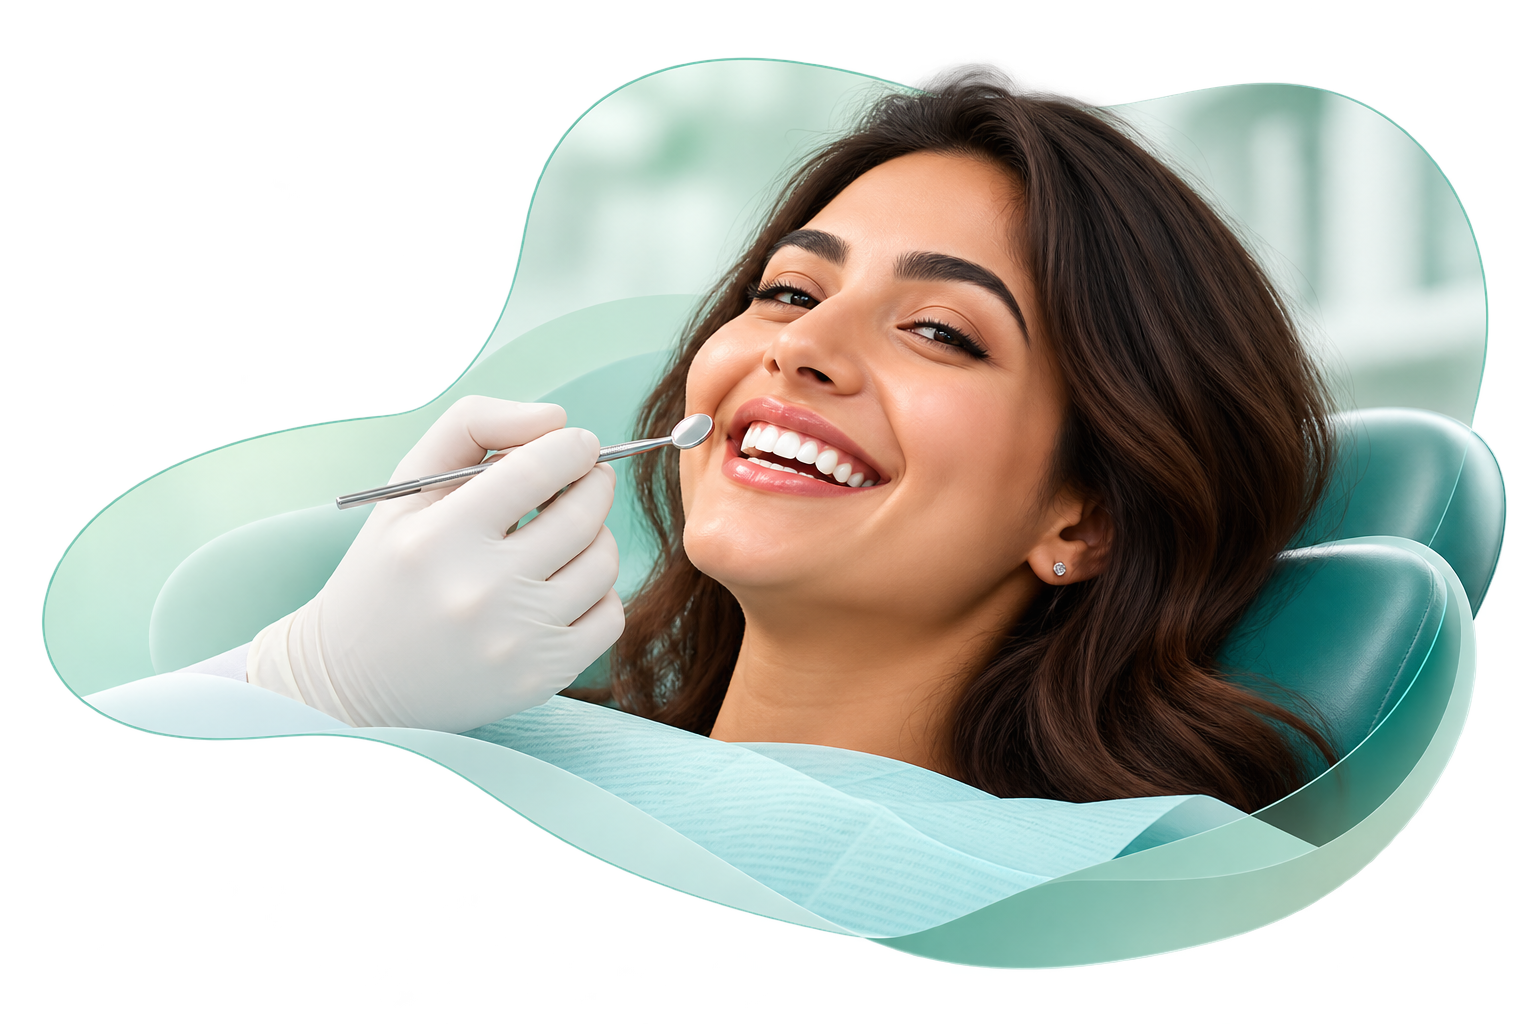
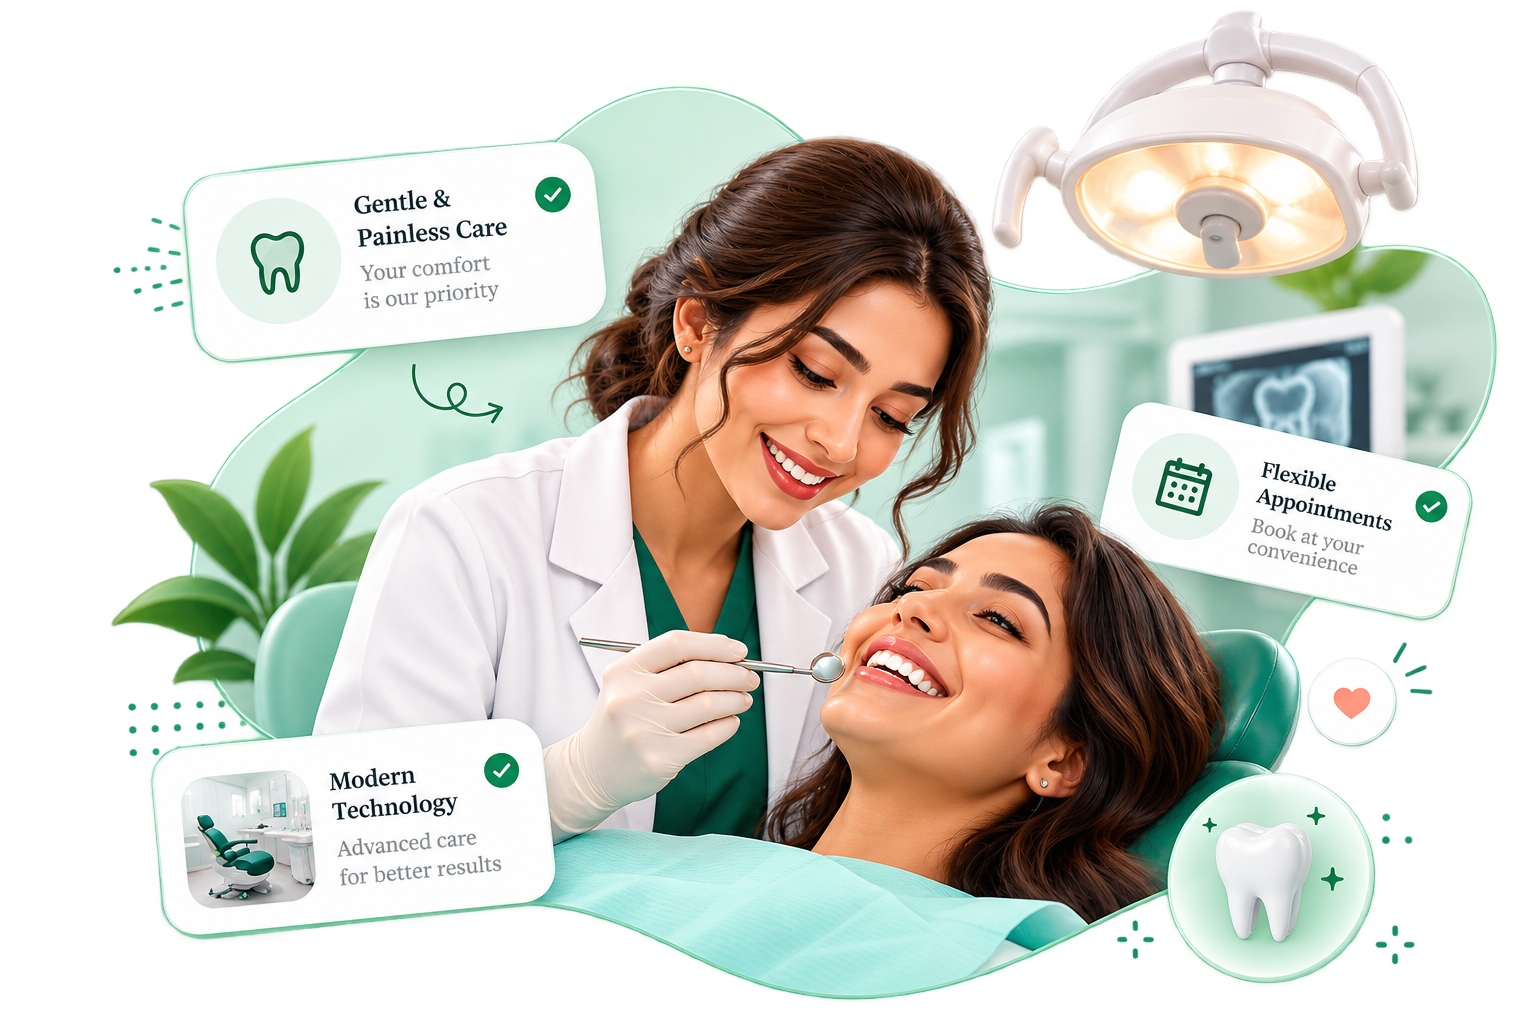
feat(hero): update HeroSection layout and styles for improved presentation
- Increased the maximum container width in globals.css for better layout.
- Adjusted padding in HeroSection for enhanced spacing.
- Added BrushMark component to the HeroSection for visual appeal.
- Wrapped the "Healthier You" text in a flex container for better alignment with the BrushMark.
- Updated hero image to reflect new design.

diff --git a/src/components/home/BrushMark.tsx b/src/components/home/BrushMark.tsx
@@ -1,0 +1,47 @@
+import { useId } from "react";
+
+// Shape traced from the reference image (tight viewBox, no padding).
+const SHAPE_PATH =
+  "M29.69 80.27C30.38 80.20 33.33 80.08 36.25 80.01C47.91 79.71 48.95 79.58 53.06 77.85C57.71 75.90 59.57 74.23 59.35 72.21C59.10 70.05 55.92 67.66 52.57 67.12C51.23 66.90 47.95 67.01 47.41 67.29C46.30 67.87 46.94 68.94 48.89 69.77C49.40 69.98 50.09 70.31 50.43 70.50C50.78 70.69 51.43 70.97 51.88 71.11C54.41 71.94 54.48 73.26 52.08 75.05C50.31 76.38 49.20 76.72 46.06 76.88C41.93 77.09 38.99 76.74 36.98 75.80C34.97 74.87 33.68 74.88 31.29 75.88C27.50 77.45 25.50 78.73 25.50 79.57C25.51 80.54 26.09 80.63 29.69 80.27ZM31.26 65.99C32.03 65.70 33.76 64.91 35.11 64.22C40.65 61.39 43.76 59.85 45.06 59.30C45.82 58.98 47.00 58.48 47.69 58.19C48.38 57.90 49.33 57.48 49.81 57.27C50.29 57.06 51.17 56.69 51.75 56.43C52.33 56.18 53.40 55.72 54.12 55.41C54.85 55.10 56.53 54.43 57.88 53.92C59.22 53.41 61.10 52.69 62.06 52.31C65.92 50.81 68.97 49.73 70.94 49.18C71.56 49.00 73.44 48.41 75.11 47.87C78.48 46.77 78.79 46.73 80.15 47.14C82.32 47.80 84.63 46.82 84.63 45.23C84.62 43.36 81.95 42.96 77.68 44.19C76.58 44.51 74.48 45.08 73.00 45.46C71.52 45.83 69.36 46.39 68.19 46.69C67.02 46.99 65.25 47.51 64.25 47.86C62.62 48.42 61.54 48.82 57.12 50.48C55.52 51.09 53.36 51.97 52.19 52.50C51.71 52.72 50.78 53.09 50.12 53.31C46.58 54.54 42.53 56.50 36.79 59.77C35.45 60.53 34.31 61.17 32.95 61.91C30.56 63.22 28.88 64.83 28.88 65.81C28.88 66.66 29.33 66.69 31.26 65.99ZM20.64 58.18C21.23 57.77 21.90 56.81 22.32 55.75C23.28 53.36 25.48 50.82 30.33 46.48C31.86 45.12 33.55 43.49 34.10 42.85C34.65 42.21 35.83 40.85 36.71 39.82C37.59 38.80 38.71 37.47 39.19 36.88C39.67 36.28 40.52 35.29 41.08 34.68C43.97 31.53 46.28 27.75 46.52 25.77C46.68 24.38 46.83 24.09 47.79 23.23C48.79 22.34 49.75 20.62 49.25 20.63C49.18 20.63 48.80 20.78 48.40 20.98C48.01 21.17 46.94 21.63 46.03 21.99C44.37 22.66 43.31 23.25 42.25 24.12C40.95 25.19 39.16 26.29 36.80 27.48C33.70 29.05 33.64 29.09 30.79 31.76C26.61 35.69 25.24 37.74 23.23 43.11C22.75 44.37 22.20 45.77 21.99 46.23C21.25 47.85 19.99 51.15 19.80 51.96C19.70 52.41 19.28 53.61 18.87 54.64C18.39 55.84 18.12 56.68 18.12 57.01C18.12 58.43 19.41 59.03 20.64 58.18ZM25.25 46.39C25.25 46.09 25.71 45.50 25.95 45.50C26.18 45.50 26.18 46.00 25.93 46.35C25.69 46.69 25.25 46.72 25.25 46.39ZM27.34 44.03C26.83 43.45 26.72 41.53 27.12 40.23C27.58 38.74 29.52 35.62 31.19 33.67C31.87 32.88 34.04 31.12 36.81 29.13C38.94 27.60 38.94 27.60 39.67 27.65C40.33 27.70 40.46 27.75 40.83 28.16C41.64 29.04 41.25 30.32 39.54 32.48C37.46 35.07 36.69 35.99 35.32 37.44C34.48 38.33 33.19 39.71 32.44 40.50C29.43 43.71 27.96 44.73 27.34 44.03Z";
+
+type BrushMarkProps = {
+  /** Fill color of the shape */
+  color?: string;
+  className?: string;
+  width?: number | string;
+};
+
+export default function BrushMark({
+  color = "#3f8f66",
+  className,
+  width = 60,
+}: BrushMarkProps) {
+  const clipId = `clip-${useId().replace(/:/g, "")}`; // unique per instance, SSR-safe
+
+  return (
+    <svg
+      viewBox="18.12 20.62 66.51 59.85"
+      width={width}
+      className={className}
+      role="img"
+      aria-label="Green brush mark"
+    >
+      <defs>
+        <clipPath id={clipId}>
+          <path fillRule="evenodd" clipRule="evenodd" d={SHAPE_PATH} />
+        </clipPath>
+      </defs>
+
+      {/* Anything drawn here is revealed only inside the shape:
+          swap the rect for an <image>, gradient, pattern, etc. */}
+      <rect
+        x="18.12"
+        y="20.62"
+        width="66.51"
+        height="59.85"
+        fill={color}
+        clipPath={`url(#${clipId})`}
+      />
+    </svg>
+  );
+}

diff --git a/src/components/home/HeroSection.tsx b/src/components/home/HeroSection.tsx
@@ -9,12 +9,13 @@ import { HeroTrustBadge } from "@/components/home/HeroTrustBadge";
 import { HeroMotion } from "@/components/motion/FadeIn";
 import { FloatingTools } from "@/components/motion/FloatingTools";
 import { SECTION_TOOLS } from "@/data/section-tools";
+import BrushMark from "./BrushMark";
 
 export function HeroSection() {
   return (
     <section
       id="home"
-      className="relative overflow-hidden border-b border-border bg-background pb-14 pt-4 md:pb-20 md:pt-16"
+      className="relative overflow-hidden border-b border-border bg-background pb-14 pt-4 md:pb-20 md:pt-24"
     >
       <FloatingTools tools={[...SECTION_TOOLS.hero]} />
       <div className="relative z-10 mx-auto max-w-[var(--container-max)] px-[var(--container-padding)]">
@@ -32,7 +33,10 @@ export function HeroSection() {
             <HeroMotion delay={0.18}>
               <h1 className="font-heading text-[2.35rem] font-bold leading-[1.12] tracking-tight text-foreground sm:text-5xl lg:text-[3.15rem] xl:text-[3.5rem]">
                 Expert Dental Care for a Brighter,{" "}
-                <span className="text-primary">Healthier You</span>
+                <div className="flex gap-4">
+                  <span className="text-primary">Healthier You</span>
+                  <BrushMark width={60} />
+                </div>
               </h1>
             </HeroMotion>
 

diff --git a/src/app/globals.css b/src/app/globals.css
@@ -98,7 +98,7 @@
   --space-32: 8rem;
 
   /* Layout */
-  --container-max: 72rem;
+  --container-max: 78rem;
   --container-padding: 1.5rem;
   --section-padding-y: 5rem;
 }
